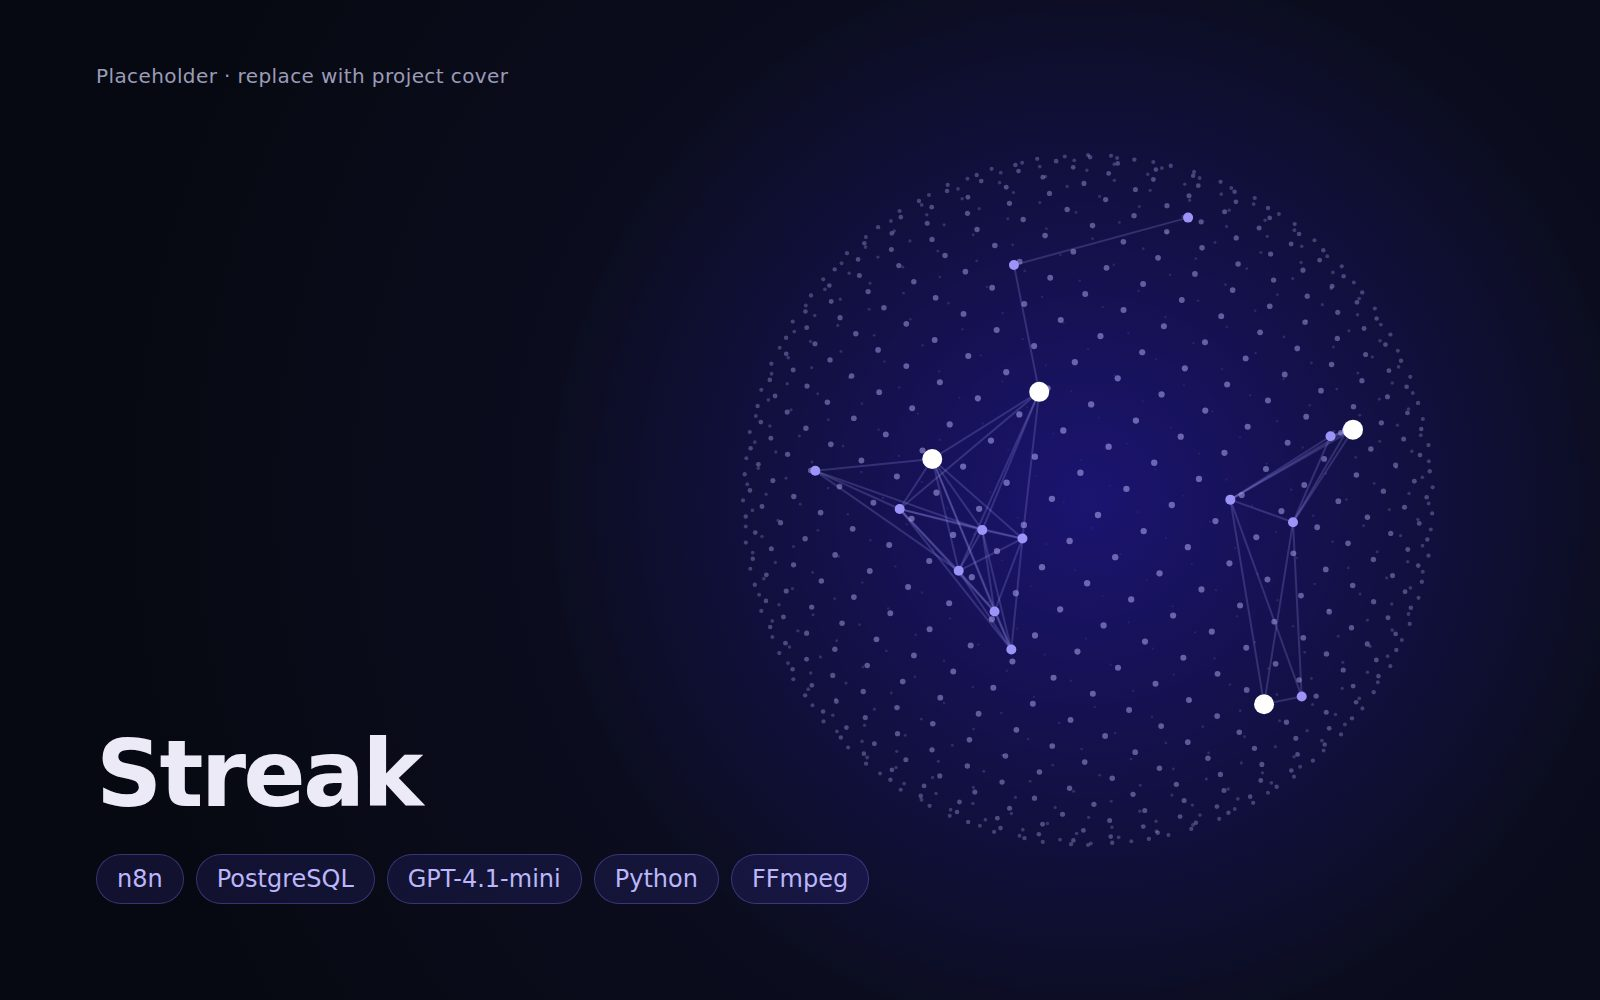
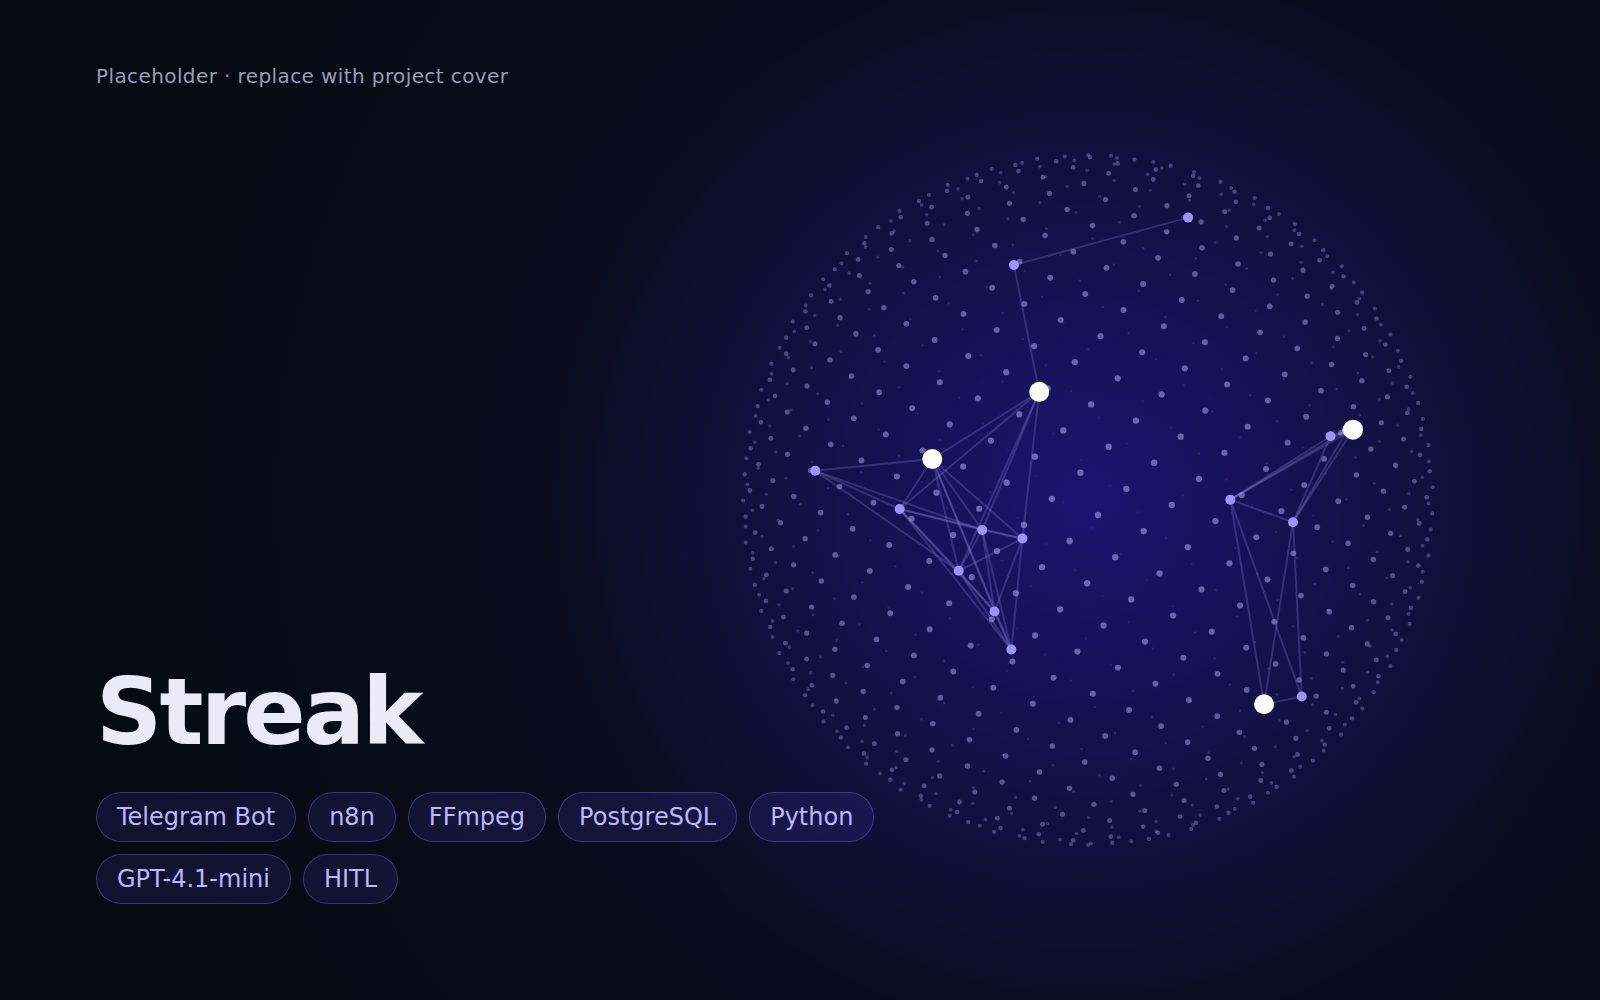
Rewrite the Streak project around its real four-stage pipeline
- Telegram bot intake with AI only for event classification, admin
  approval with reporter notifications, FFmpeg editing on Hostinger
  (~90 s), and auto-publishing to a page per governorate with a dashboard
- "What I built" can now be a list of steps, shown as a numbered list
  in the demo modal
- Update tags and regenerate the Streak placeholder media

Claude-Session: https://claude.ai/code/session_01B4uTLEHBgZsZAbpp1iHrnQ

Changed region(s): [[0.0625, 0.651, 0.5625, 0.93]]

diff --git a/data/projects.ts b/data/projects.ts
@@ -25,7 +25,8 @@ export type Project = {
   /** 2–3 lines shown in the project row. */
   summary: string;
   problem: string;
-  solution: string;
+  /** A paragraph, or a list of steps shown as a numbered list. */
+  solution: string | string[];
   result: string;
   tags: string[];
   links?: ProjectLink[];
@@ -59,14 +60,18 @@ export const projects: Project[] = [
     poster: "/posters/streak.jpg",
     video: { type: "file", src: "/videos/streak.mp4" },
     summary:
-      "A citizen-journalism agent framework. It processes local video reports, routes them for human approval and prepares approved stories for news distribution.",
+      "A fully automated citizen news channel. People report local events through a Telegram bot, an admin approves each video, FFmpeg edits it in about 90 seconds, and the story is published automatically to the right governorate's page.",
     problem:
-      "Local reports arrive as raw phone videos with no structure. Editors need to verify each one quickly without publishing anything unchecked.",
-    solution:
-      "An n8n pipeline that ingests submissions, processes video with FFmpeg, transcribes and summarises with GPT-4.1-mini, and stores everything in PostgreSQL. Each report goes to an editor for approval, then becomes a distribution-ready package.",
+      "The client wanted a news channel fed by citizen reports, with a separate page for every governorate, while keeping AI API costs as close to zero as possible. That ruled out the usual approach of using AI for editing and captions.",
+    solution: [
+      "A Telegram bot where the reporter picks the governorate and area, describes the event and uploads the video. AI is used for one small step only: classifying the event.",
+      "Admin review: every video goes to an admin who approves or rejects it, and the reporter is notified either way, with the reason when it is rejected.",
+      "Automatic editing with free, open-source FFmpeg on a Hostinger server. In about 90 seconds the admin receives an edited video and caption, ready to publish.",
+      "Automatic publishing to a large network of pages, one per governorate, plus a dashboard where the admin follows every submission and its statistics.",
+    ],
     result:
-      "Editors review a structured brief instead of raw footage, and nothing is published without an explicit human sign-off.",
-    tags: ["n8n", "PostgreSQL", "GPT-4.1-mini", "Python", "FFmpeg"],
+      "A complete newsroom pipeline from a phone video to a published post, with almost no API cost, a human approving everything before it goes live, and one dashboard to run it all.",
+    tags: ["Telegram Bot", "n8n", "FFmpeg", "PostgreSQL", "Python", "GPT-4.1-mini", "HITL"],
   },
   {
     slug: "business-operations-agents",

diff --git a/components/projects/DemoModal.tsx b/components/projects/DemoModal.tsx
@@ -147,9 +147,24 @@ export function DemoModal({ project, onClose }: Props) {
               ["What I built", project.solution],
               ["Result", project.result],
             ].map(([label, body]) => (
-              <div key={label}>
+              <div key={label as string}>
                 <dt className="text-xs font-medium uppercase tracking-wider text-faint">{label}</dt>
-                <dd className="mt-2 text-[15px] leading-relaxed text-muted">{body}</dd>
+                <dd className="mt-2 text-[15px] leading-relaxed text-muted">
+                  {Array.isArray(body) ? (
+                    <ol className="space-y-3">
+                      {body.map((step, i) => (
+                        <li key={i} className="flex gap-3">
+                          <span className="mt-0.5 grid size-6 shrink-0 place-items-center rounded-full border border-accent/40 bg-accent/10 text-xs font-medium text-accent-soft">
+                            {i + 1}
+                          </span>
+                          <span>{step}</span>
+                        </li>
+                      ))}
+                    </ol>
+                  ) : (
+                    body
+                  )}
+                </dd>
               </div>
             ))}
             <div>
